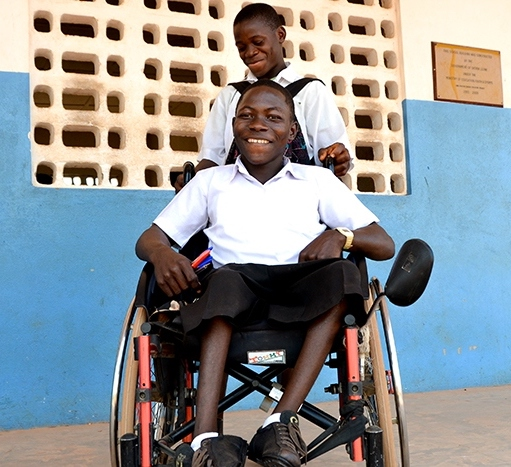
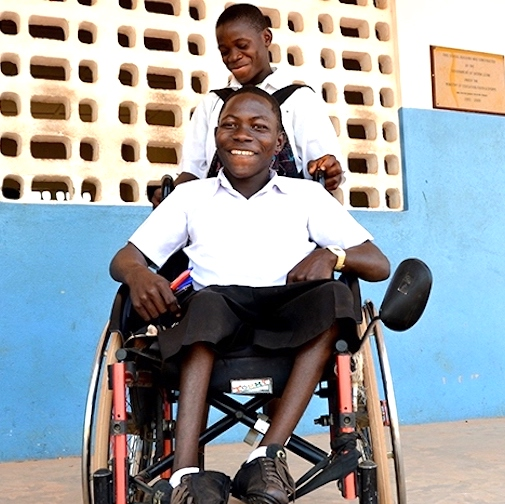
added text and photos to home

diff --git a/app/assets/stylesheets/pages/_home.scss b/app/assets/stylesheets/pages/_home.scss
@@ -1,10 +1,11 @@
 .banner {
+  margin-top: 100px;
   background: image-url('wesofod.jpg');
   background-position: center;
   background-repeat: no-repeat;
   background-size: cover;
   position: relative;
-  height: 480px;
+  height: calc(100vh - 140px);
 }
 
 .text-box {
@@ -27,14 +28,30 @@
 }
 
 .home-container {
-  width: 750px;
+  width: 75vw;
   margin: 0 auto;
+  display: flex;
+  flex-direction: column;
+  padding: 80px 0px;
   h1 {
     color: $primary-color;
+    margin-bottom: 40px;
   }
+  p {
+    font-size: 16px;
+    line-height: 32px;
+  }
+}
+
+.home-text {
+  padding: 24px;
+  background-color: white;
+  box-shadow: 0 1px 5px 0 rgba(0,0,0,0.07);
+  margin-bottom: 40px;
 }
 
 .home-image {
   width: 100%;
-  margin: 16px;
+  margin: 20px 0px;
+  box-shadow: 0 3px 20px rgba(62, 9, 11, 0.3);
 }

diff --git a/app/assets/stylesheets/pages/_contact.scss b/app/assets/stylesheets/pages/_contact.scss
@@ -1,5 +1,5 @@
 .contact-page-container {
-  margin-top: 40px;
+  margin-top: 140px;
   margin-right: auto;
   margin-left: auto;
   width: 90vw;
@@ -22,14 +22,15 @@
 }
 
 .map-container {
-  max-width: 650px;
+  max-width: 350px;
   min-width: 250px;
   flex: 1 1 auto;
   margin: 40px auto;
 }
 
 #map {
-  box-shadow: 0 1px 5px 0 rgba(0,0,0,0.07);
+  // box-shadow: 0 1px 5px 0 rgba(0,0,0,0.07);
+  border: 1px solid #A9A9A9;
   height: 250px;
 }
 
@@ -45,7 +46,8 @@
 }
 
 #map-large {
-  box-shadow: 0 1px 5px 0 rgba(0,0,0,0.07);
+  // box-shadow: 0 1px 5px 0 rgba(0,0,0,0.07);
+  border: 1px solid #A9A9A9;
   height: 350px;
 }
 

diff --git a/app/assets/stylesheets/components/_header.scss b/app/assets/stylesheets/components/_header.scss
@@ -1,5 +1,9 @@
 .header-large {
-  height: 120px;
+  position: fixed;
+  z-index: 1;
+  top: 0;
+  width: 100%;
+  height: 100px;
   background-color: white;
   box-shadow: 0 1px 5px 0 rgba(0,0,0,0.07),0 1px 0 0 rgba(0,0,0,0.03);
 }
@@ -9,7 +13,7 @@
   display: flex;
   justify-content: space-between;
   align-items: center;
-  height: 120px;
+  height: 100px;
   padding-right: 16px;
   padding-left: 16px;
 }
@@ -18,7 +22,7 @@
   color: white;
   transition: all 0.3s ease;
   font-family: $headers-font;
-  font-size: 40px;
+  font-size: 32px;
   margin: 0;
   margin-right: 20px;
   background-color: $primary-color;

diff --git a/app/assets/stylesheets/pages/_secondary_page.scss b/app/assets/stylesheets/pages/_secondary_page.scss
@@ -6,7 +6,7 @@
 // }
 
 .secondary-page-container {
-  margin-top: 40px;
+  margin-top: 140px;
   display: flex;
   flex-direction: column;
   align-items: center;

diff --git a/app/assets/stylesheets/components/_footer.scss b/app/assets/stylesheets/components/_footer.scss
@@ -1,5 +1,5 @@
 .footer {
-  background-color: $secondary-color;
+  background-color: $primary-color;
   height: 200px;
   display: flex;
   align-items: center;
